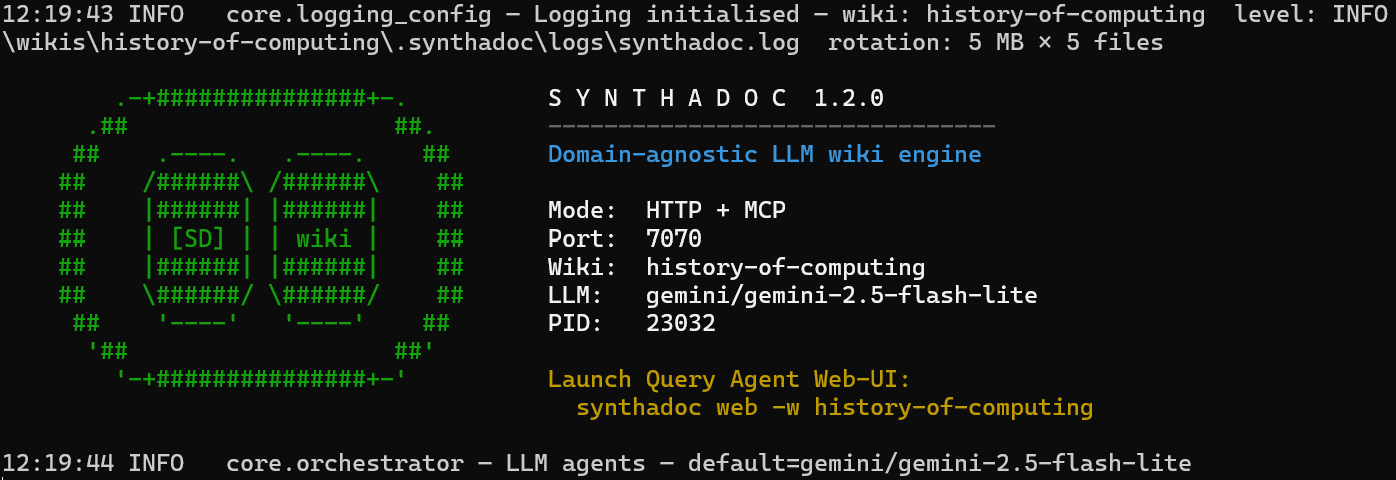
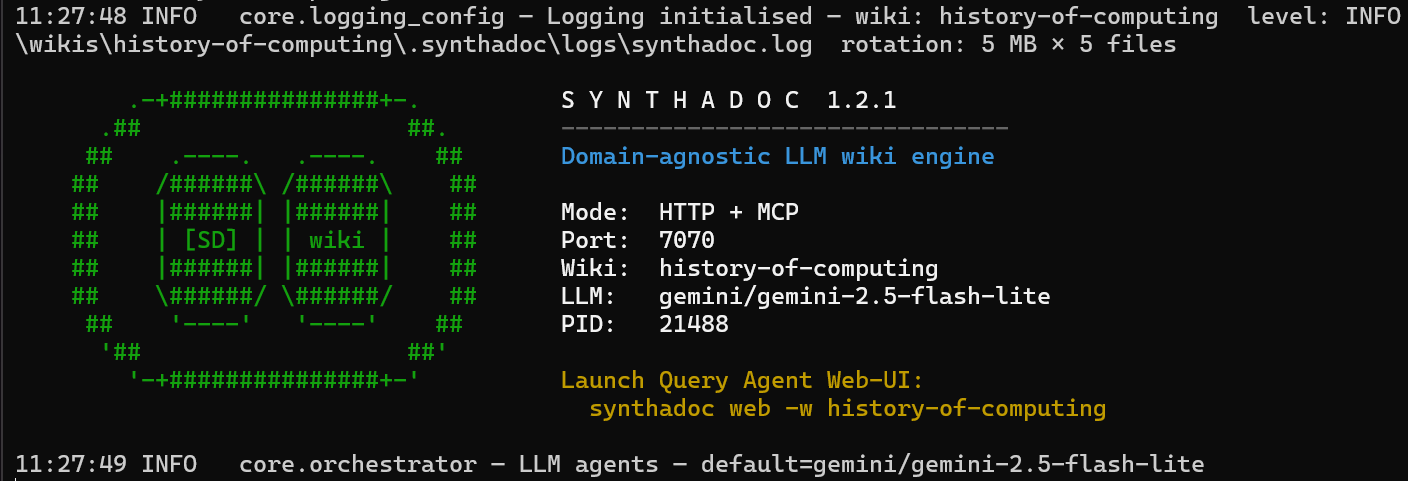
v1.2.1 release prep (#314)
* docs: trim §26 agentic workflows to demo-first; update design.md routing architecture

user-quick-start-guide.md §26:
- Replace 40-line per-workflow tool-call step tables with a 5-row
  behaviour summary table + one design.md pointer
- Demo walkthroughs (Workflows A-E) preserved intact
- Removes duplicate of design.md content; guide now focuses on
  what users see and do, not the protocol internals

design.md §Agentic Maintenance Workflows:
- Remove stale _BROKEN_WIKILINKS_PAT manual-sync requirement (superseded
  by _ROUTED_PAT dynamic union built from ROUTED_WORKFLOWS at import time)
- Update 'Routing and loop constraints': document _ROUTED_PAT and the
  ^-anchoring rule for generic imperative-verb MATCH_RE patterns
- Trim 'Adding a new workflow' from 4 steps to 3; clarify no other
  file needs to change when adding a workflow to ROUTED_WORKFLOWS

* chore(v1.2.1): release prep — version bump, docs, badges, plugin sync

- Bump version 1.2.0 -> 1.2.1 (VERSION, manifests, README.md, docs/)
- design.md Appendix A: add v1.2.1 section with 8 entries (3 new workflows,
  get_page_states, CLI routing, audit DB indexes, auto-scroll, pre_prompt fix,
  scheduler pipe drain, local-time snapshots); scope v1.2.0 entry to v1.2.0 only
- design.md Routing and loop constraints: replace stale _BROKEN_WIKILINKS_PAT
  sync doc with _ROUTED_PAT description; update Adding a workflow to 3 steps
- README.md: add Maintenance workflows badge (dynamic, links to §26);
[…]

diff --git a/scripts/update_badges.py b/scripts/update_badges.py
@@ -89,6 +89,21 @@ def count_hooks() -> int:
     return sum(1 for p in hooks_dir.glob("*.py"))
 
 
+def count_maintenance_workflows() -> int:
+    """Count agentic maintenance workflow classes in synthadoc/agents/workflows/.
+
+    Each workflow is a concrete subclass of AgenticWorkflow — identified by
+    'class <Name>Workflow(AgenticWorkflow)' declarations in the workflows package.
+    """
+    import re
+    workflows_dir = ROOT / "synthadoc" / "agents" / "workflows"
+    pattern = re.compile(r"^class \w+Workflow\(AgenticWorkflow\)", re.MULTILINE)
+    return sum(
+        len(pattern.findall(p.read_text(encoding="utf-8")))
+        for p in workflows_dir.glob("*.py")
+    )
+
+
 def read_coverage(coverage_json: Path) -> int:
     """Return total coverage as an integer (e.g. 87).
 
@@ -126,6 +141,7 @@ def main() -> None:
         "mcp_tools": count_mcp_tools(),
         "agents": count_agents(),
         "hooks": count_hooks(),
+        "maintenance_workflows": count_maintenance_workflows(),
     }
 
     badges_path = ROOT / "docs" / "badges.json"

diff --git a/tests/conftest.py b/tests/conftest.py
@@ -79,8 +79,10 @@ def tmp_wiki(tmp_path: Path) -> Path:
     # starts.  On Windows CI, sqlite3.connect() on a brand-new file triggers an AV
     # scan; creating them here (outside the event loop) prevents that scan from
     # blocking aiosqlite threads during app startup and timing out long test suites.
-    # audit.db is intentionally excluded — some tests assert on its absence.
-    for _db in ("jobs.db", "cache.db"):
+    # audit.db is included: tests that call _fetch_live_wiki_data and expect ""
+    # still pass because the function returns "" for an empty (data-less) DB, the
+    # same result as for a missing file.
+    for _db in ("jobs.db", "cache.db", "audit.db"):
         with sqlite3.connect(sd / _db):
             pass
     return tmp_path

diff --git a/tests/agents/test_query_agent.py b/tests/agents/test_query_agent.py
@@ -2279,7 +2279,7 @@ async def test_query_system_knowledge_no_wiki_citations(tmp_wiki):
 
 @pytest.mark.asyncio
 async def test_fetch_live_wiki_data_no_db_returns_empty(tmp_wiki):
-    """Returns empty string gracefully when audit.db does not exist."""
+    """Returns empty string gracefully when audit.db has no lifecycle data."""
     store = WikiStorage(tmp_wiki / "wiki")
     search = HybridSearch(store, tmp_wiki / ".synthadoc" / "embeddings.db")
     agent = QueryAgent(provider=AsyncMock(), store=store, search=search)

diff --git a/docs/design.md b/docs/design.md
@@ -1,6 +1,6 @@
 # Synthadoc — Design Document
 
-**Version:** 1.2.0  
+**Version:** 1.2.1  
 **Audience:** Product users who want to understand how the system works; developers adding features, skills, and plugins.
 
 **Document owners:** Paul Chen, William Johnason
@@ -3368,9 +3368,9 @@ In the web UI **Graph tab**, the node detail panel includes a **Maintenance** se
 
 Fast-path routing uses a **workflow registry** (`synthadoc/agents/workflows/_registry.py`). Each workflow that needs pre-LLM routing declares a `MATCH_RE` class attribute; the action agent iterates the registry and routes to the first match — no LLM call is made.
 
-The LLM-extraction gate (`_ACTION_RE` in `action_agent.py`) is a separate, more conservative pattern set used to decide whether to invoke the LLM at all. Workflow `MATCH_RE` patterns are intentionally not merged into `_ACTION_RE` because fast-path patterns can be broader than what `_ACTION_RE` should allow (e.g. `LintReportWorkflow.MATCH_RE` matches "How do I run a lint check?" which is a question, not an action). Only patterns whose false-positive risk is acceptable should be added to `_ACTION_RE`.
+The LLM-extraction gate (`_ACTION_RE` in `action_agent.py`) is a separate, more conservative pattern set used to decide whether to invoke the LLM at all. `_ROUTED_PAT` — a union of every registered workflow's `MATCH_RE` pattern, built dynamically at import time from `ROUTED_WORKFLOWS` — is included in `_ACTION_RE` automatically. Adding a workflow to `ROUTED_WORKFLOWS` therefore extends `_ACTION_RE` coverage with no manual edit required.
 
-**`_BROKEN_WIKILINKS_PAT` sync requirement:** `BrokenWikilinksWorkflow.MATCH_RE` has a corresponding plain-string constant (`_BROKEN_WIKILINKS_PAT`) in `action_agent.py` that forms part of `_ACTION_RE`. When `BrokenWikilinksWorkflow.MATCH_RE` changes, `_BROKEN_WIKILINKS_PAT` must be updated manually to match — there is no automated sync. A `MATCH_RE` pattern whose phrases have no corresponding `_ACTION_RE` entry is unreachable dead code: the query is diverted to `QueryAgent` before the registry loop is ever consulted. The removal of `|\blint\s+run\b` from `LintReportWorkflow.MATCH_RE` illustrates this: the verb-last phrase "lint run" was never covered by `_ACTION_RE`, so the branch could never fire.
+One constraint applies to `MATCH_RE` patterns that use generic imperative verbs (e.g. `\brun\b`): these must be anchored with `^` so they do not match how-to questions ("How do I run lint?") that share the same verb. Domain-specific phrases (e.g. `\bbroken\s+wikilinks\b`, `\bstale\s+pages\b`) are specific enough that anchoring is not required.
 
 - Phrases matching `MATCH_RE` of any registered workflow → routed directly, no LLM extraction
 - Phrases matching `re-ingest the <slug> page` → routed to `IngestLintWorkflow` via a separate slug-specific fast-path (this workflow has no `MATCH_RE` because the slug is captured at routing time)
@@ -3381,11 +3381,10 @@ The LLM-extraction gate (`_ACTION_RE` in `action_agent.py`) is a separate, more 
 ### Adding a new workflow
 
 1. Create a new module under `synthadoc/agents/workflows/` implementing `AgenticWorkflow` (three abstract methods: `build_system_prompt`, `build_initial_message`, `get_tool_fns`).
-2. If the workflow needs pre-LLM fast-path routing, set `MATCH_RE = re.compile(r"...", re.IGNORECASE)` as a class attribute.
+2. If the workflow needs pre-LLM fast-path routing, set `MATCH_RE = re.compile(r"...", re.IGNORECASE)` as a class attribute. Anchor imperative-verb patterns with `^` (see routing constraints above).
 3. Add one import line and one entry to `ROUTED_WORKFLOWS` in `synthadoc/agents/workflows/_registry.py`.
-4. Add a phrase-pattern covering the workflow's trigger phrases to `_ACTION_RE` in `action_agent.py`. A `MATCH_RE` whose phrases are absent from `_ACTION_RE` is unreachable dead code — queries are diverted to `QueryAgent` before the registry loop runs.
 
-The routing loop and test scaffolding update automatically from steps 2–3. Step 4 is always manual. The loop machinery — tool dispatch, result injection, termination detection, 30-call cap, 120-second confirmation timeout — is inherited automatically from `AgenticWorkflow`.
+No other file needs to change. `_ROUTED_PAT` is rebuilt from `ROUTED_WORKFLOWS` at import time, so `_ACTION_RE` coverage extends automatically. The loop machinery — tool dispatch, result injection, termination detection, 30-call cap, 120-second confirmation timeout — is inherited automatically from `AgenticWorkflow`.
 
 → User walkthrough: [Quick-Start Guide §26 — Agentic Maintenance Workflows](docs/user-quick-start-guide.md#agentic-workflows)
 
@@ -3459,10 +3458,20 @@ All three files share identical body content generated from the same template; t
 
 ## Appendix A — Release Feature Index
 
+### v1.2.1
+
+- **Three additional agentic maintenance workflows** — extending the pluggable workflow registry introduced in v1.2.0 with three new conversational workflows: **Workflow C** (broken wikilinks scan and fix — "scan for broken wikilinks") scans all active pages for dead `[[slug]]` references, proposes fuzzy-matched corrections with `difflib`, and applies fixes after confirmation; **Workflow D** (lint run and full report — "run lint") runs a full lint pass and streams the complete report in one turn with no confirmation gate; **Workflow E** (scaffold regeneration — "run scaffold") previews domain and files to overwrite, confirms, then regenerates `wiki/index.md`, `wiki/purpose.md`, `AGENTS.md`, `CLAUDE.md`, and `GEMINI.md`. All three are fully pluggable: each is a self-contained module implementing `AgenticWorkflow` with a `MATCH_RE` class attribute; adding a workflow to `ROUTED_WORKFLOWS` in `_registry.py` automatically extends `_ACTION_RE` coverage via the dynamic `_ROUTED_PAT` union — no other file changes required.
+- **`get_page_states` step in agentic reingest** — Workflows A and B now call `get_page_states` after the lint run completes, returning the final lifecycle state (`active`, `stale`, `draft`, `archived`) of every re-ingested page as part of the completion summary.
+- **`synthadoc query` CLI agentic routing** — the `synthadoc query` CLI command now routes through the same action-agent path as the web UI chat, enabling all five agentic maintenance workflows from the terminal.
+- **Audit DB secondary indexes** — `audit_events`, `lifecycle_events`, and `claim_citations` tables now carry secondary indexes on their most-queried foreign-key and timestamp columns, eliminating full-table scans on large audit databases.
+- **Web UI auto-scroll during agentic workflows** — the content panel now auto-scrolls to the bottom during agentic workflow progress so inline `tool_progress` events stay visible without manual scrolling.
+- **`pre_prompt` suppression after completion** — the `done.pre_prompt` field is now cleared after the user sends the suggested follow-up action, preventing the suggestion from re-appearing on the next turn.
+- **Scheduler subprocess pipe draining** — the scheduler now drains stdout/stderr from killed or timed-out subprocess pipes before closing them, eliminating `BrokenPipeError` noise on timeout and cancellation.
+- **Snapshot timestamps in local time** — lifecycle content snapshot timestamps are now displayed in the user's local timezone rather than UTC in the Obsidian Content Snapshots tab and the CLI `lifecycle history` output.
+
 ### v1.2.0
 
 - **Agentic Ingest & Lint Workflow** — conversational agentic loop in the web UI chat that orchestrates re-ingest and lint runs without the user leaving the chat. Two workflows: **Workflow A** (bulk stale reingest — "re-ingest stale pages") finds every stale page, confirms, re-ingests each one, then runs lint; **Workflow B** (by-slug reingest — "re-ingest the alan-turing page") re-ingests any single page by slug regardless of lifecycle state (active, draft, or stale). Built on a tool-call loop in the action agent: six tools (`find_stale_pages`, `find_page_source`, `ingest_source`, `poll_job`, `run_lint`, `confirm`); two new SSE event types (`tool_progress`, `confirm_request`); new `POST /ingest` and `POST /action/confirm` HTTP endpoints. Slug-based requests are intercepted by a regex fast-path before LLM extraction for reliable routing. Errors return as structured `tool_result` payloads — the stream never dies on a tool failure; partial completion continues with remaining pages. Graph sidebar maintenance chips in the web UI trigger both workflows with one click.
-- **Agentic Maintenance Workflows** — user-facing conversational maintenance experience built on the Agentic Ingest & Lint Workflow; covers both workflows (stale-bulk and by-slug), the full tool set, graph sidebar chips, SSE protocol extensions (`tool_progress`, `confirm_request`, `done.pre_prompt`), and loop constraints (30-call cap, 120-second confirmation timeout). See [§ Agentic Maintenance Workflows](#agentic-maintenance-workflows).
 - **Content snapshots and rollback** — page body captured at every lifecycle transition (manual CLI/Obsidian/MCP, lint-driven auto-transition); browse per-page version history with `synthadoc lifecycle history`; restore any prior version with `synthadoc lifecycle rollback` (saves current body first so rollback is always undoable). Content Snapshots tab added to the Obsidian Lifecycle modal. See [§23 Page Content Snapshots](#page-content-snapshots).
 - **Background vault monitoring** — Obsidian plugin registers `vault.on("modify")` with a 2-second per-slug debounce; on each quiet period it posts `POST /pages/{slug}/snapshot` to capture manual edits that do not trigger a lifecycle transition. Server-side deduplication ensures no snapshot is written when content is unchanged. See [§8 Background vault monitoring](#background-vault-monitoring-v120).
 - **Atomic page writes** — `WikiStorage.write_page` now writes to a `.tmp` sibling then calls `os.replace()`, eliminating the risk of a partial page file on mid-write crash or disk error. Shared `atomic_write_text()` utility in `synthadoc/utils.py` consolidates the pattern used by `write_page`, `Scheduler._save_raw`, and `Orchestrator._auto_block_domain` (BUG-24).

diff --git a/docs/user-quick-start-guide.md b/docs/user-quick-start-guide.md
@@ -1,6 +1,6 @@
 # Synthadoc User Quick-Start Guide
 
-**Version: v1.2.0 (Community Edition)**
+**Version: v1.2.1 (Community Edition)**
 
 This guide walks you through the **History of Computing** demo wiki — a fully wired
 Synthadoc environment with 13 pre-built pages and six raw source files that cover every
@@ -2671,15 +2671,18 @@ Press **Enter** to send it. A confirmation card appears:
 > *Found 1 stale page: konrad-zuse. Re-ingest it?*
 > **Yes, re-ingest all** / **No, cancel**
 
-Click **Yes, re-ingest all**. Inline progress events appear:
+Click **Yes, re-ingest all**. Inline progress events stream as the workflow runs each step:
 
 ```
 Looking up stale pages…
 Re-ingesting konrad-zuse-z3-computer.md…
 Polling job…  ✓ completed
+Running lint…
+Lint running... (8s)  ✓ completed
+Checking page states…
 ```
 
-When done, the chat pre-fills "Run lint to promote re-ingested pages to active" — click **Send** to promote `konrad-zuse` back to active in one more step.
+When done, the workflow writes a plain-text summary showing the re-ingest outcome, the lint result (pass/fail), and the final lifecycle state of each page — `konrad-zuse` appears as ✓ active. No second step is needed: lint runs as part of the workflow.
 
 ### Demo — re-ingest a specific page by slug (Workflow B)
 
@@ -2692,7 +2695,18 @@ The agent looks up the source path and asks for confirmation:
 > *Re-ingest alan-turing from `.../alan-turing.md`?*
 > **Yes** / **No, cancel**
 
-Confirm. The page is force-re-ingested (bypassing deduplication). When complete, a lint run is suggested via the pre-fill button.
+Confirm. Inline progress events stream as the workflow runs:
+
+```
+Looking up source for alan-turing…
+Re-ingesting alan-turing.md…
+Polling job…  ✓ completed
+Running lint…
+Lint running... (8s)  ✓ completed
+Checking page states…
+```
+
+When done, the workflow writes a plain-text summary showing the re-ingest outcome, the lint result, and the final lifecycle state — `alan-turing` appears as ✓ active. Lint runs as part of the workflow; no second step is needed.
 
 ### Maintenance chips in the web UI graph sidebar
 
@@ -2830,49 +2844,21 @@ Any other triggering phrase also works:
 
 > **Tip:** Re-run Workflow E after adding a significant batch of new pages to keep the index categories and AGENTS.md guidelines current with the wiki's actual scope.
 
-### How the agentic loop works
+### How it works
 
-All five workflows run as a multi-step tool-call loop driven by the action agent. The steps are:
+Each workflow runs as an agentic tool-call loop that streams inline progress after every step — you see what the agent is doing as it happens. All destructive operations (re-ingest, link fix, scaffold write) require your explicit confirmation before anything is changed. Declining exits cleanly with no side effects.
 
-**Workflow A (stale pages):**
-1. `find_stale_pages` — returns all stale pages with their local source paths
-2. `confirm` — asks user approval before touching any page
-3. `ingest_source` × N — force-ingests each page and waits for the job to complete (one at a time)
-4. `run_lint` — queues a full lint pass; returns a job_id
-5. `poll_job` — waits for the lint job to reach a terminal state
-6. `get_page_states` — checks the final lifecycle state of each re-ingested page
-7. Plain-text summary of every re-ingest outcome, the lint result, and page states
+**Key behaviours by workflow:**
 
-**Workflow B (by slug):**
-1. `find_page_source(slug)` — returns the source file path for the named page, regardless of lifecycle state
-2. `confirm` — shows slug and source path, asks approval
-3. `ingest_source` — force-ingests the page and waits for the job to complete
-4. `run_lint` → `poll_job` → `get_page_states`
-5. Plain-text summary
+| Workflow | Confirmation | Key behaviour |
+|----------|-------------|---------------|
+| **A — stale bulk** | ✓ required | Re-ingests pages one at a time; a single failure does not abort the run — remaining pages continue |
+| **B — by slug** | ✓ required | Force-re-ingests regardless of current lifecycle state |
+| **C — broken wikilinks** | ✓ required (if any found) | If the wiki is already clean, the workflow stops after scanning — no card appears |
+| **D — lint report** | none | Lint is read-only; runs and reports autonomously |
+| **E — scaffold** | ✓ required | User-written content above `<!-- synthadoc:scaffold -->` markers is always preserved |
 
-**Workflow C (broken wikilinks):**
-1. `find_broken_wikilinks` — scans all active pages; returns broken refs with fuzzy suggestions
-2. If none found: reports clean wiki and stops (no confirmation needed)
-3. `confirm` — shows full scope: every broken ref and its proposed fix
-4. `apply_link_fixes` × N — applies corrections one page at a time
-5. `run_lint` → `poll_job` → `get_page_states`
-6. Plain-text summary
-
-**Workflow D (lint run and report):**
-1. `run_lint` — enqueues a full lint pass; returns a job_id
-2. `poll_job` — waits for the lint job to reach a terminal state
-3. `get_lint_report` — reads the current lint state from wiki files: orphans, contradictions, adversarial warnings, citation issues
-4. Plain-text report: summary counts, contradicted pages with state-change dates, adversarial warnings by slug, orphan slugs
-
-**Workflow E (scaffold and report):**
-1. `get_scaffold_preview` — reads the configured domain and lists files to overwrite
-2. `confirm` — shows domain and file list; user must approve before anything is written
-3. `run_scaffold(domain)` — enqueues the scaffold job, waits for completion, reads `categories_updated` and `routing_regenerated` from the job result
-4. Plain-text report: domain, files written, pages categorised, ROUTING.md status
-
-Tool progress streams as inline events — you see each step as it happens. Declining confirmation exits cleanly. A single-page failure does not abort Workflow A — remaining pages continue and all outcomes appear in the final summary. Workflow D requires no confirmation — lint is a read-and-report operation that does not modify pages. Workflow E always confirms before writing scaffold files.
-
-For the full protocol specification, see [Agentic Maintenance Workflows](design.md#agentic-maintenance-workflows) in the design doc.
+For tool-level detail — per-workflow tool sets, SSE extensions (`tool_progress`, `confirm_request`, `done.pre_prompt`), routing architecture, and loop constraints — see [§ Agentic Maintenance Workflows](design.md#agentic-maintenance-workflows) in the design doc.
 
 ---
 

diff --git a/README.md b/README.md
@@ -14,7 +14,7 @@
       '-+###############+-'
 
        S Y N T H A D O C
-    Community Edition  v1.2.0
+    Community Edition  v1.2.1
   ────────────────────────────────
   Domain-agnostic LLM wiki engine
 ```
@@ -30,10 +30,11 @@
 <a href="https://github.com/axoviq-ai/synthadoc/tree/main/hooks"><img src="https://img.shields.io/badge/dynamic/json?url=https%3A%2F%2Fraw.githubusercontent.com%2Faxoviq-ai%2Fsynthadoc%2Fbadges%2Fdocs%2Fbadges.json&query=%24.hooks&label=Hook%20events&color=teal" alt="Hook events"/></a>
 <a href="https://github.com/axoviq-ai/synthadoc"><img src="https://img.shields.io/badge/dynamic/json?url=https%3A%2F%2Fraw.githubusercontent.com%2Faxoviq-ai%2Fsynthadoc%2Fbadges%2Fdocs%2Fbadges.json&query=%24.cli_commands&label=CLI%20commands&color=darkblue" alt="CLI commands"/></a>
 <a href="https://github.com/axoviq-ai/synthadoc/tree/main/obsidian-plugin"><img src="https://img.shields.io/badge/dynamic/json?url=https%3A%2F%2Fraw.githubusercontent.com%2Faxoviq-ai%2Fsynthadoc%2Fbadges%2Fdocs%2Fbadges.json&query=%24.obsidian_commands&label=Obsidian%20commands&color=blueviolet" alt="Obsidian commands"/></a>
-<a href="https://github.com/axoviq-ai/synthadoc"><img src="https://img.shields.io/badge/Community%20Edition-v1.2.0-brightgreen.svg" alt="Version"/></a>
+<a href="https://github.com/axoviq-ai/synthadoc/blob/main/docs/user-quick-start-guide.md#agentic-workflows"><img src="https://img.shields.io/badge/dynamic/json?url=https%3A%2F%2Fraw.githubusercontent.com%2Faxoviq-ai%2Fsynthadoc%2Fbadges%2Fdocs%2Fbadges.json&query=%24.maintenance_workflows&label=Maintenance%20workflows&color=green" alt="Maintenance workflows"/></a>
+<a href="https://github.com/axoviq-ai/synthadoc"><img src="https://img.shields.io/badge/Community%20Edition-v1.2.1-brightgreen.svg" alt="Version"/></a>
 </p>
 
-**Document version: v1.2.0**
+**Document version: v1.2.1**
 
 **Engineered for solo users and enterprises alike, providing a domain-specific knowledge base that scales seamlessly while maintaining accuracy through autonomous self-optimization.**
 
@@ -68,6 +69,12 @@ Synthadoc reads your raw source documents — PDFs, spreadsheets, PPTs, web page
     </td>
   </tr>
 </table>
+
+<!-- pypi-strip-start -->
+<p align="center">
+  <a href="docs/media/README.md">📝 Blogs & Media — YouTube · Coderlegion · DEV.to · Medium</a>
+</p>
+<!-- pypi-strip-end -->
 
 ---
 
@@ -220,7 +227,7 @@ Every **Yes** below is a built-in feature — no add-ons or upgrades required.
 | **[Custom skills + CI hooks](docs/design.md#11-hook-system)** — subclass `BaseSkill` for new file formats; 2 hook events (`on_ingest_complete` + `on_lint_complete`); example git auto-commit hook included; blocking hooks can gate operations | **Yes** | Limited | No | No |
 | **[Per-source truncation flag](docs/design.md#30-per-source-truncation-flag)** — `--max-source-chars` caps any source (PDF, DOCX, web page, plain text) before the LLM call; truncated sources flagged with `truncated: true` in frontmatter and warned in lint output | **Yes** | No | No | No |
 | **[Multi-wiki isolation](docs/design.md#wiki-targeting)** — each wiki on its own port with independent config, audit trail, and job queue; switch with `synthadoc use` | **Yes** | No | Partial | No |
-| **[Agentic maintenance workflows](docs/user-quick-start-guide.md#agentic-workflows)** — five conversational workflows via web UI, Obsidian query modal, or `synthadoc query` CLI: (A) "re-ingest stale pages" — bulk re-ingests every stale page, confirms before touching anything, runs lint on completion; (B) "re-ingest the [slug] page" — re-ingests any single page regardless of lifecycle state; (C) "scan for broken wikilinks" — scans active pages for dead `[[slug]]` references, proposes fuzzy-matched corrections, applies fixes after confirmation; (D) "run lint" — runs a full lint pass and streams the complete report in one turn, no confirmation needed; (E) "run scaffold" — previews domain and files to overwrite, confirms, then regenerates `index.md`, `purpose.md`, `AGENTS.md`, `CLAUDE.md`, and `GEMINI.md`; graph sidebar maintenance chips in the web UI trigger workflows with one click — no terminal required | **Yes** | No | No | No |
+| **[Agentic maintenance workflows](docs/user-quick-start-guide.md#agentic-workflows)** — five conversational workflows (re-ingest stale pages, re-ingest by slug, broken wikilinks scan and fix, lint report, scaffold regeneration) via web UI, Obsidian query modal, or `synthadoc query` CLI; confirm-before-act gate on all destructive operations; graph sidebar chips trigger workflows with one click — no terminal required | **Yes** | No | No | No |
 
 ### Business value
 
@@ -1222,7 +1229,7 @@ Custom skills, LLM providers, hooks, cache control, and per-wiki AGENTS.md are d
 ## Links
 
 <!-- pypi-strip-start -->
-- Blogs & Media: [docs/media/](docs/media/README.md) — DEV.to, Medium, Coderlegion, YouTube
+- Blogs & Media: [docs/media/](docs/media/README.md) — YouTube, Coderlegion, DEV.to, Medium
 <!-- pypi-strip-end -->
 - Design document: [docs/design.md](docs/design.md)
 - Customization: [docs/design.md — Customization](docs/design.md#customization)

diff --git a/README-pypi.md b/README-pypi.md
@@ -14,7 +14,7 @@
       '-+###############+-'
 
        S Y N T H A D O C
-    Community Edition  v1.2.0
+    Community Edition  v1.2.1
   ────────────────────────────────
   Domain-agnostic LLM wiki engine
 ```
@@ -30,10 +30,11 @@
 <a href="https://github.com/axoviq-ai/synthadoc/tree/main/hooks"><img src="https://img.shields.io/badge/dynamic/json?url=https%3A%2F%2Fraw.githubusercontent.com%2Faxoviq-ai%2Fsynthadoc%2Fbadges%2Fdocs%2Fbadges.json&query=%24.hooks&label=Hook%20events&color=teal" alt="Hook events"/></a>
 <a href="https://github.com/axoviq-ai/synthadoc"><img src="https://img.shields.io/badge/dynamic/json?url=https%3A%2F%2Fraw.githubusercontent.com%2Faxoviq-ai%2Fsynthadoc%2Fbadges%2Fdocs%2Fbadges.json&query=%24.cli_commands&label=CLI%20commands&color=darkblue" alt="CLI commands"/></a>
 <a href="https://github.com/axoviq-ai/synthadoc/tree/main/obsidian-plugin"><img src="https://img.shields.io/badge/dynamic/json?url=https%3A%2F%2Fraw.githubusercontent.com%2Faxoviq-ai%2Fsynthadoc%2Fbadges%2Fdocs%2Fbadges.json&query=%24.obsidian_commands&label=Obsidian%20commands&color=blueviolet" alt="Obsidian commands"/></a>
-<a href="https://github.com/axoviq-ai/synthadoc"><img src="https://img.shields.io/badge/Community%20Edition-v1.2.0-brightgreen.svg" alt="Version"/></a>
+<a href="https://github.com/axoviq-ai/synthadoc/blob/main/docs/user-quick-start-guide.md#agentic-workflows"><img src="https://img.shields.io/badge/dynamic/json?url=https%3A%2F%2Fraw.githubusercontent.com%2Faxoviq-ai%2Fsynthadoc%2Fbadges%2Fdocs%2Fbadges.json&query=%24.maintenance_workflows&label=Maintenance%20workflows&color=green" alt="Maintenance workflows"/></a>
+<a href="https://github.com/axoviq-ai/synthadoc"><img src="https://img.shields.io/badge/Community%20Edition-v1.2.1-brightgreen.svg" alt="Version"/></a>
 </p>
 
-**Document version: v1.2.0**
+**Document version: v1.2.1**
 
 **Engineered for solo users and enterprises alike, providing a domain-specific knowledge base that scales seamlessly while maintaining accuracy through autonomous self-optimization.**
 
@@ -218,7 +219,7 @@ Every **Yes** below is a built-in feature — no add-ons or upgrades required.
 | **[Custom skills + CI hooks](https://github.com/axoviq-ai/synthadoc/blob/main/docs/design.md#11-hook-system)** — subclass `BaseSkill` for new file formats; 2 hook events (`on_ingest_complete` + `on_lint_complete`); example git auto-commit hook included; blocking hooks can gate operations | **Yes** | Limited | No | No |
 | **[Per-source truncation flag](https://github.com/axoviq-ai/synthadoc/blob/main/docs/design.md#30-per-source-truncation-flag)** — `--max-source-chars` caps any source (PDF, DOCX, web page, plain text) before the LLM call; truncated sources flagged with `truncated: true` in frontmatter and warned in lint output | **Yes** | No | No | No |
 | **[Multi-wiki isolation](https://github.com/axoviq-ai/synthadoc/blob/main/docs/design.md#wiki-targeting)** — each wiki on its own port with independent config, audit trail, and job queue; switch with `synthadoc use` | **Yes** | No | Partial | No |
-| **[Agentic maintenance workflows](https://github.com/axoviq-ai/synthadoc/blob/main/docs/user-quick-start-guide.md#agentic-workflows)** — five conversational workflows via web UI, Obsidian query modal, or `synthadoc query` CLI: (A) "re-ingest stale pages" — bulk re-ingests every stale page, confirms before touching anything, runs lint on completion; (B) "re-ingest the [slug] page" — re-ingests any single page regardless of lifecycle state; (C) "scan for broken wikilinks" — scans active pages for dead `[[slug]]` references, proposes fuzzy-matched corrections, applies fixes after confirmation; (D) "run lint" — runs a full lint pass and streams the complete report in one turn, no confirmation needed; (E) "run scaffold" — previews domain and files to overwrite, confirms, then regenerates `index.md`, `purpose.md`, `AGENTS.md`, `CLAUDE.md`, and `GEMINI.md`; graph sidebar maintenance chips in the web UI trigger workflows with one click — no terminal required | **Yes** | No | No | No |
+| **[Agentic maintenance workflows](https://github.com/axoviq-ai/synthadoc/blob/main/docs/user-quick-start-guide.md#agentic-workflows)** — five conversational workflows (re-ingest stale pages, re-ingest by slug, broken wikilinks scan and fix, lint report, scaffold regeneration) via web UI, Obsidian query modal, or `synthadoc query` CLI; confirm-before-act gate on all destructive operations; graph sidebar chips trigger workflows with one click — no terminal required | **Yes** | No | No | No |
 
 ### Business value
 

diff --git a/docs/media/README.md b/docs/media/README.md
@@ -2,7 +2,7 @@
 
 | Platform | Content |
 |---|---|
+| [YouTube](youtube.md) | Video walkthroughs and demos |
+| [Coderlegion](https://coderlegion.com/user/PaulChen088/posts?type=posts&cat=articles) | Architecture and design pattern posts |
 | [DEV.to](https://forem.com/paul_chen_90371fe7426cb44) | Architecture, use cases and design posts |
 | [Medium](medium.md) | Long-form tutorials and deep dives |
-| [Coderlegion](https://coderlegion.com/user/PaulChen088/posts?type=posts&cat=articles) | Architecture and design pattern posts |
-| [YouTube](youtube.md) | Video walkthroughs and demos |
